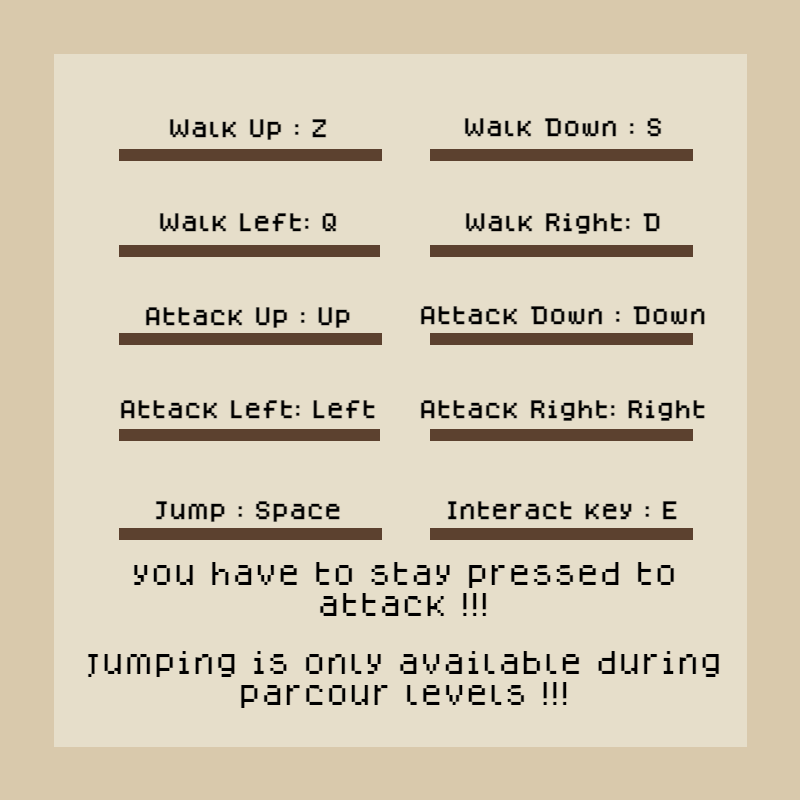
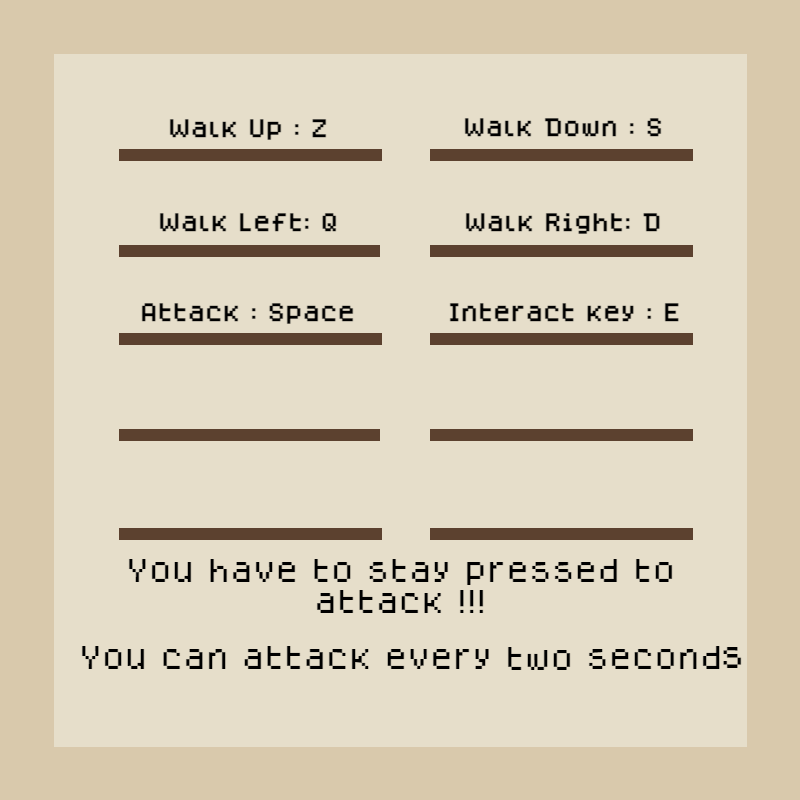
modif du content et de perso

diff --git a/CHADventure/CHADventure/Perso.cs b/CHADventure/CHADventure/Perso.cs
@@ -139,6 +139,7 @@ namespace CHADventure
             if (APorter(redBlob.PositionBlob, redBlob) && keyboardState.IsKeyDown(Keys.Space))
             {
                 degats = true;
+                _animation = "attack";
                 Console.WriteLine("Marche2");
             }
             return degats;
